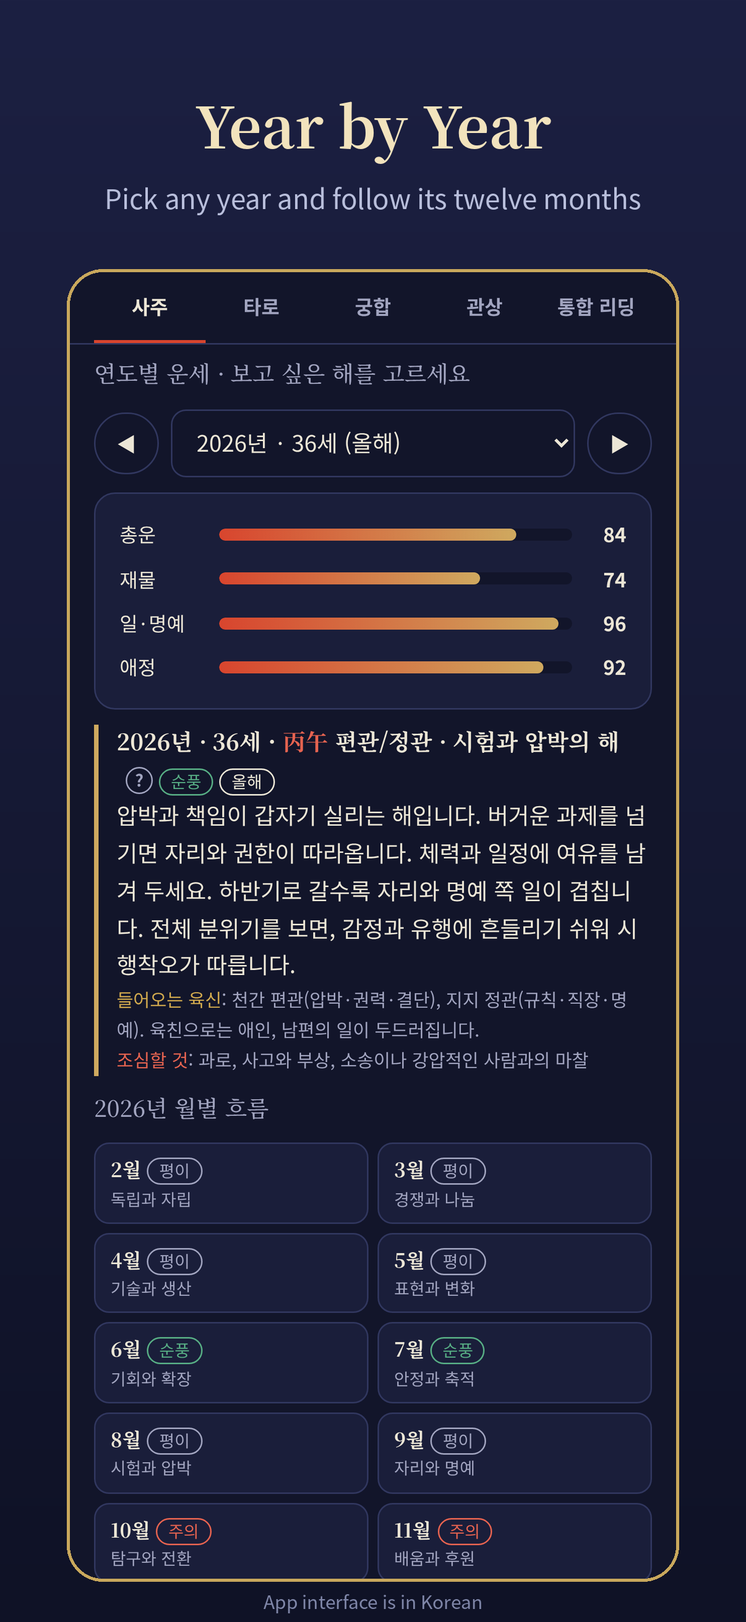
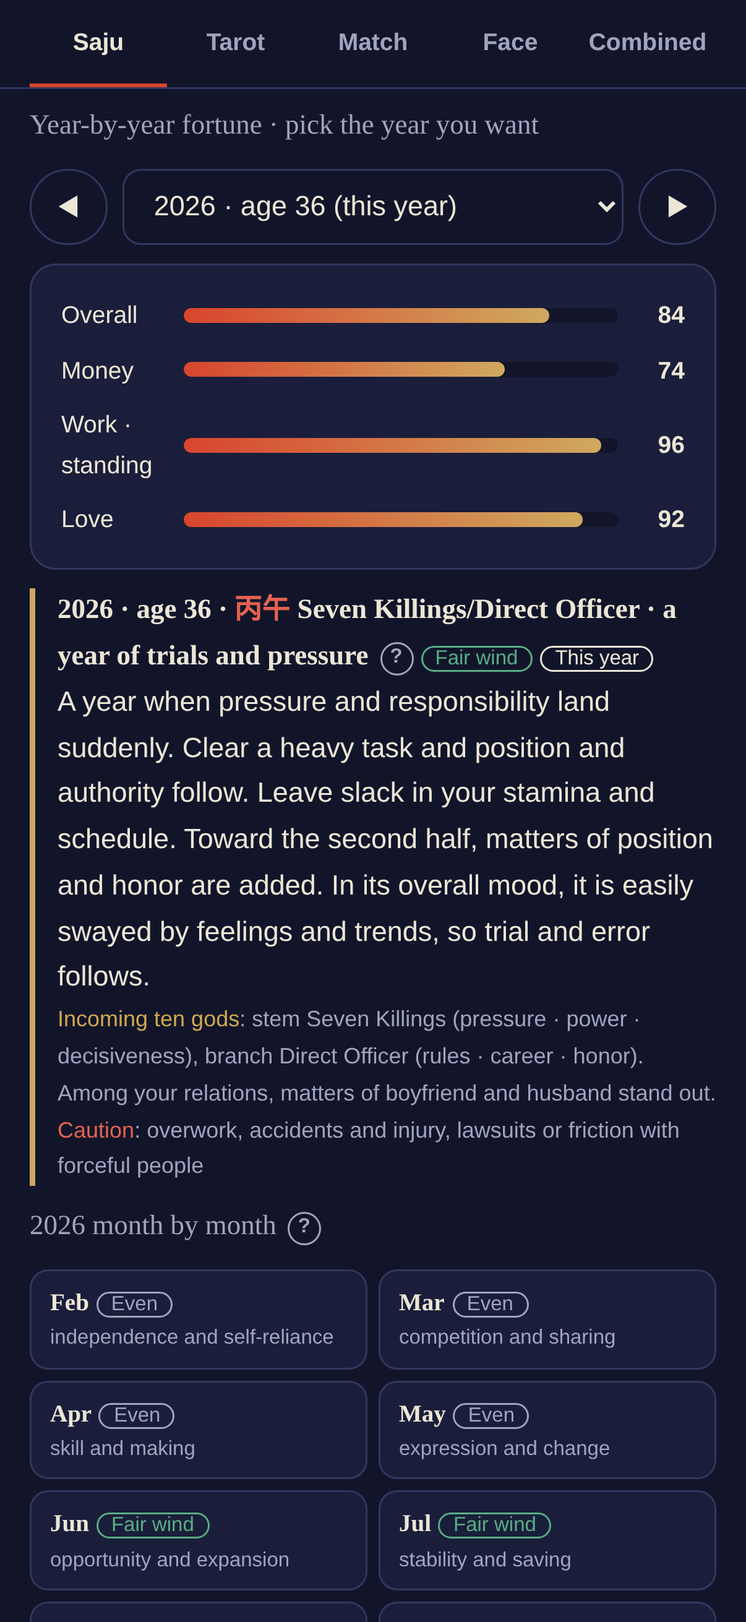
1.6: 영어 지원(언어 전환, 해외 출생지·시간대 계산, 영어 스크린샷, 영어 약관·방침 초안)
Claude-Session: https://claude.ai/code/session_01QACgwmPwTTV6X5ASPwkZ8c

diff --git a/src/engine.js b/src/engine.js
@@ -32,6 +32,33 @@ const cityKeyOf = u => u.city && CITY_LON[u.city] != null ? u.city : (Object.key
 const cityLabel = key => { const p = key.split('|'); return (['경기', '강원', '경남'].includes(p[0]) && ['광주', '고성'].includes(p[1]) ? p[0] + ' ' : '') + p[1]; };
 const cityOptions = sel => REGIONS.map(g => '<optgroup label="' + g[0] + '">' + g[1].map(c => { const k = g[0] + '|' + c[0]; return '<option value="' + k + '"' + (k === sel ? ' selected' : '') + '>' + c[0] + '</option>'; }).join('') + '</optgroup>').join('');
 
+/* 해외 출생: 주요 도시의 경도(동경 +, 서경 -)와 시간대. 태어난 곳의 시계 시각을 그 시간대(서머타임 포함)로 세계시로 바꾸고, 경도로 그곳의 태양시를 구해 시주를 세운다. */
+const WORLD = [
+  ['Korea · Japan', [['Seoul', 126.98, 'Asia/Seoul'], ['Busan', 129.08, 'Asia/Seoul'], ['Tokyo', 139.69, 'Asia/Tokyo'], ['Osaka', 135.50, 'Asia/Tokyo'], ['Sapporo', 141.35, 'Asia/Tokyo'], ['Fukuoka', 130.40, 'Asia/Tokyo']]],
+  ['United States · Canada', [['New York', -74.01, 'America/New_York'], ['Boston', -71.06, 'America/New_York'], ['Philadelphia', -75.17, 'America/New_York'], ['Washington, D.C.', -77.04, 'America/New_York'], ['Atlanta', -84.39, 'America/New_York'], ['Miami', -80.19, 'America/New_York'], ['Detroit', -83.05, 'America/Detroit'], ['Toronto', -79.38, 'America/Toronto'], ['Montreal', -73.57, 'America/Toronto'], ['Chicago', -87.63, 'America/Chicago'], ['Houston', -95.37, 'America/Chicago'], ['Dallas', -96.80, 'America/Chicago'], ['San Antonio', -98.49, 'America/Chicago'], ['Minneapolis', -93.27, 'America/Chicago'], ['Denver', -104.99, 'America/Denver'], ['Calgary', -114.07, 'America/Edmonton'], ['Phoenix', -112.07, 'America/Phoenix'], ['Los Angeles', -118.24, 'America/Los_Angeles'], ['San Diego', -117.16, 'America/Los_Angeles'], ['San Francisco', -122.42, 'America/Los_Angeles'], ['San Jose', -121.89, 'America/Los_Angeles'], ['Las Vegas', -115.14, 'America/Los_Angeles'], ['Portland', -122.68, 'America/Los_Angeles'], ['Seattle', -122.33, 'America/Los_Angeles'], ['Vancouver', -123.12, 'America/Vancouver'], ['Anchorage', -149.90, 'America/Anchorage'], ['Honolulu', -157.86, 'Pacific/Honolulu']]],
+  ['Asia · Pacific', [['Beijing', 116.41, 'Asia/Shanghai'], ['Shanghai', 121.47, 'Asia/Shanghai'], ['Hong Kong', 114.17, 'Asia/Hong_Kong'], ['Taipei', 121.57, 'Asia/Taipei'], ['Manila', 120.98, 'Asia/Manila'], ['Hanoi', 105.85, 'Asia/Ho_Chi_Minh'], ['Ho Chi Minh City', 106.63, 'Asia/Ho_Chi_Minh'], ['Bangkok', 100.50, 'Asia/Bangkok'], ['Singapore', 103.82, 'Asia/Singapore'], ['Kuala Lumpur', 101.69, 'Asia/Kuala_Lumpur'], ['Jakarta', 106.85, 'Asia/Jakarta'], ['Delhi', 77.21, 'Asia/Kolkata'], ['Mumbai', 72.88, 'Asia/Kolkata'], ['Dubai', 55.27, 'Asia/Dubai'], ['Sydney', 151.21, 'Australia/Sydney'], ['Melbourne', 144.96, 'Australia/Melbourne'], ['Perth', 115.86, 'Australia/Perth'], ['Auckland', 174.76, 'Pacific/Auckland']]],
+  ['Europe · Africa', [['London', -0.13, 'Europe/London'], ['Dublin', -6.26, 'Europe/Dublin'], ['Lisbon', -9.14, 'Europe/Lisbon'], ['Madrid', -3.70, 'Europe/Madrid'], ['Paris', 2.35, 'Europe/Paris'], ['Amsterdam', 4.90, 'Europe/Amsterdam'], ['Berlin', 13.40, 'Europe/Berlin'], ['Rome', 12.50, 'Europe/Rome'], ['Stockholm', 18.07, 'Europe/Stockholm'], ['Warsaw', 21.01, 'Europe/Warsaw'], ['Athens', 23.73, 'Europe/Athens'], ['Istanbul', 28.98, 'Europe/Istanbul'], ['Moscow', 37.62, 'Europe/Moscow'], ['Cairo', 31.24, 'Africa/Cairo'], ['Lagos', 3.38, 'Africa/Lagos'], ['Nairobi', 36.82, 'Africa/Nairobi'], ['Johannesburg', 28.05, 'Africa/Johannesburg']]],
+  ['Latin America', [['Mexico City', -99.13, 'America/Mexico_City'], ['Bogotá', -74.07, 'America/Bogota'], ['Lima', -77.04, 'America/Lima'], ['Santiago', -70.67, 'America/Santiago'], ['Buenos Aires', -58.38, 'America/Argentina/Buenos_Aires'], ['São Paulo', -46.63, 'America/Sao_Paulo']]]
+];
+const WORLD_MAP = {}; WORLD.forEach(g => g[1].forEach(c => { WORLD_MAP[c[0]] = c; }));
+const worldOptions = sel => WORLD.map(g => '<optgroup label="' + g[0] + '">' + g[1].map(c => '<option' + (c[0] === sel ? ' selected' : '') + '>' + c[0] + '</option>').join('') + '</optgroup>').join('');
+function worldGuess() { let tz = ''; try { tz = Intl.DateTimeFormat().resolvedOptions().timeZone; } catch (e) {} const hit = Object.keys(WORLD_MAP).find(k => WORLD_MAP[k][2] === tz); return hit || 'New York'; }
+const _zoneFmt = {};
+function zoneOffsetMin(ms, tz) {
+  try {
+    const f = _zoneFmt[tz] || (_zoneFmt[tz] = new Intl.DateTimeFormat('en-US', { timeZone: tz, hourCycle: 'h23', year: 'numeric', month: 'numeric', day: 'numeric', hour: 'numeric', minute: 'numeric', second: 'numeric' }));
+    const p = {}; f.formatToParts(new Date(ms)).forEach(x => { p[x.type] = +x.value; });
+    return Math.round((Date.UTC(p.year, p.month - 1, p.day, p.hour, p.minute, p.second) - ms) / 60000);
+  } catch (e) { return 0; }
+}
+function zoneToUTC(y, m, d, h, mi, tz) { const wall = Date.UTC(y, m - 1, d, h, mi); let ms = wall - zoneOffsetMin(wall, tz) * 60000; return wall - zoneOffsetMin(ms, tz) * 60000; }
+/* 화면에서 받은 태어난 곳과 시계 시각을 사용자 정보에 붙인다(영어판). 시 번호(si)는 계산 결과에서 채운다. */
+function withPlace(u, place, time, noTime) {
+  const c = WORLD_MAP[place] || WORLD_MAP['New York'], t = /^(\d{1,2}):(\d{2})/.exec(time || '');
+  u.place = c[0]; u.lon = c[1]; u.tz = c[2]; u.hh = noTime || !t ? null : +t[1]; u.mm = noTime || !t ? null : +t[2]; u.si = null;
+  u.si = calcSaju(u).siIdx; return u;
+}
+
 const stemEl = s => Math.floor(s / 2);
 const mod = (a, n) => ((a % n) + n) % n;
 const pad2 = n => String(n).padStart(2, '0');
@@ -112,12 +139,15 @@ const siOptions = sel => SI_LABEL.map((l, i) => '<option value="' + i + '"' + (i
 function calcSaju(u) {
   let sol = { y: u.y, m: u.m, d: u.d }, err = null;
   if (u.cal !== 'solar') { const r = lunarToSolar(u.y, u.m, u.d, u.cal === 'leap'); if (r) sol = r; else err = T('음력 날짜를 양력으로 바꾸지 못했습니다. 날짜와 윤달 여부를 확인하세요.', 'Could not convert the lunar date to a solar date. Check the date and whether it is a leap month.'); }
-  const si = siOf(u), known = si >= 0;                             // 시는 사주의 열두 시로 직접 받는다
-  const LON = 127.5;
-  const utc = known ? Date.UTC(sol.y, sol.m - 1, sol.d, si === 12 ? 23 : si * 2, si === 12 || si === 0 ? 30 : 0) - LON * 240000 : seoulToUTC(sol.y, sol.m, sol.d, 12, 0);
+  const W = u.tz && u.lon != null;                                 // 해외 출생: 태어난 곳의 시계 시각과 시간대, 경도로 계산한다
+  const si0 = W ? -1 : siOf(u), known = W ? u.hh != null : si0 >= 0;  // 한국: 시는 사주의 열두 시로 직접 받는다
+  const LON = W ? u.lon : 127.5;
+  const utc = W ? zoneToUTC(sol.y, sol.m, sol.d, known ? u.hh : 12, known ? u.mm : 0, u.tz)
+    : known ? Date.UTC(sol.y, sol.m - 1, sol.d, si0 === 12 ? 23 : si0 * 2, si0 === 12 || si0 === 0 ? 30 : 0) - LON * 240000 : seoulToUTC(sol.y, sol.m, sol.d, 12, 0);
   const lst = new Date(utc + LON * 240000);
-  const yajaOn = si === 12;
   const Y = lst.getUTCFullYear(), Mo = lst.getUTCMonth() + 1, D = lst.getUTCDate(), H = lst.getUTCHours(), Mi = lst.getUTCMinutes();
+  const si = !W ? si0 : !known ? -1 : H >= 23 ? 12 : Math.floor(mod(H * 60 + Mi + 60, 1440) / 120);   // 해외: 그곳 태양시로 시를 정한다(23시 이후는 야자시)
+  const yajaOn = si === 12;
   const jd = msToJD(utc, sol.y), lon = sunLon(jd);
   const sy = (Mo <= 2 && lon >= 270 && lon < 315) ? Y - 1 : (Mo === 12 && lon >= 315 ? Y + 1 : Y);
   const ys = mod(sy - 4, 10), yb = mod(sy - 4, 12);
@@ -173,7 +203,7 @@ function calcSaju(u) {
     warn: nearMin < 90 ? T('태어난 날이 절기가 바뀌는 날입니다. 절기 시각 전후로 월주(입춘이면 년주도)가 달라지니, 평소 보던 만세력과 월주를 비교해 보세요.', 'You were born on a day when the solar term changes. The month pillar (and the year pillar, at the Start of Spring) differs before and after that moment, so compare the month pillar with a chart you trust.') : '',
     err
   };
-  return { P, keys, count, me, strong, ratio, amt, tot, basis, need, forward, startAge, startExact, daeun, sajuYear: sy, by: sol.y, animal: ANIMALS[yb], lon, hourIdx, info };
+  return { P, keys, count, me, strong, ratio, amt, tot, basis, need, forward, startAge, startExact, daeun, sajuYear: sy, by: sol.y, animal: ANIMALS[yb], lon, hourIdx, siIdx: si, info };
 }
 function yearPillar(year, dayStem) { return pillar(mod(year - 4, 10), mod(year - 4, 12), dayStem); }
 function dayPillarOf(y, m, d, dayStem) { const i = mod(jdn(y, m, d) + 49, 60); return pillar(i % 10, i % 12, dayStem); }

diff --git a/src/ui2.js b/src/ui2.js
@@ -106,7 +106,7 @@ function celebrate() {
 /* ===== 헤더, 입력 폼 ===== */
 function renderWho() {
   const u = S.user, i = S.saju.info;
-  $('who').innerHTML = esc(u.name || T('이름 없음', 'No name')) + ' · ' + (u.cal === 'solar' ? T('양력 ', 'Solar ') : u.cal === 'leap' ? T('음력 윤달 ', 'Lunar leap ') : T('음력 ', 'Lunar ')) + u.y + '.' + u.m + '.' + u.d + (i.siName ? ' ' + i.siName : T(' 시 모름', ' hour unknown')) + ' · ' + (u.gender === 'M' ? T('남', 'M') : T('여', 'F')) +
+  $('who').innerHTML = esc(u.name || T('이름 없음', 'No name')) + ' · ' + (u.cal === 'solar' ? T('양력 ', 'Solar ') : u.cal === 'leap' ? T('음력 윤달 ', 'Lunar leap ') : T('음력 ', 'Lunar ')) + u.y + '.' + u.m + '.' + u.d + (u.place ? ' ' + esc(u.place) : '') + (i.siName ? ' ' + i.siName : T(' 시 모름', ' hour unknown')) + ' · ' + (u.gender === 'M' ? T('남', 'M') : T('여', 'F')) +
     (u.example ? '<span class="badge">' + T('예시 데이터', 'Example') + '</span>' : '') + (S.premium ? '<span class="badge">' + T('열람 중', 'Unlocked') + '</span>' : '');
   $('editBtn').textContent = u.example ? T('내 정보 입력', 'Enter my details') : T('수정', 'Edit');
 }
@@ -118,12 +118,19 @@ function correctionHTML() {
 }
 $('f-mbti').innerHTML = mbtiOptions;
 $('f-si').innerHTML = siOptions(-1);
+/* 영어판: 열두 시 대신 태어난 곳과 시계 시각을 받는다 */
+if (EN) {
+  const lab = $('f-si').parentNode; $('f-si').hidden = true;
+  lab.insertAdjacentHTML('beforeend', '<input id="f-time" type="time" value="12:00">');
+  lab.closest('.row').insertAdjacentHTML('afterend', '<div class="row"><label>Birthplace (nearest city)<select id="f-place">' + worldOptions(worldGuess()) + '</select></label><span></span></div>');
+}
 function fillForm() {
   const u = S.user;
   $('f-name').value = u.example ? '' : (u.name || ''); $('f-gender').value = u.gender; $('f-cal').value = u.cal;
   $('f-y').value = u.y; $('f-m').value = u.m; $('f-d').value = u.d;
   const si = siOf(u); $('f-si').value = si < 0 ? 5 : si; $('f-notime').checked = si < 0; $('f-si').disabled = si < 0;
   $('f-mbti').value = u.mbti || '';
+  if (EN) { $('f-time').value = u.hh != null ? pad2(u.hh) + ':' + pad2(u.mm) : '12:00'; $('f-time').disabled = u.tz ? u.hh == null : si < 0; $('f-notime').checked = $('f-time').disabled; if (u.place) $('f-place').value = u.place; }
 }
 $('birthForm').addEventListener('submit', e => {
   e.preventDefault();
@@ -131,6 +138,7 @@ $('birthForm').addEventListener('submit', e => {
   if (!(y >= 1900 && y <= 2100 && m >= 1 && m <= 12 && d >= 1 && d <= 31)) { msg.textContent = T('생년월일을 다시 확인하세요. 1900~2100년만 지원합니다.', 'Check the birth date again. Only 1900–2100 is supported.'); return; }
   const no = $('f-notime').checked;
   const u = { name: $('f-name').value.trim(), gender: $('f-gender').value, cal: $('f-cal').value, y, m, d, si: no ? -1 : +$('f-si').value, mbti: $('f-mbti').value };
+  if (EN) withPlace(u, $('f-place').value, $('f-time').value, no);
   if (u.cal !== 'solar' && !lunarToSolar(y, m, d, u.cal === 'leap')) { msg.textContent = T('해당 음력 날짜를 찾지 못했습니다. 윤달 여부와 날짜(29일/30일)를 확인하세요.', 'That lunar date was not found. Check whether it is a leap month and the day (29 or 30).'); return; }
   msg.textContent = ''; S.user = u; S.selYear = 0; S.deepText = ''; S.matchText = ''; store.set('mw-user2', u);
   $('birthForm').hidden = true; shuffle(); renderAll(); location.hash = 'saju'; route(); scrollTo(0, 0); celebrate();
@@ -176,8 +184,8 @@ document.addEventListener('click', e => {
   S.todayOpen = store.get('mw-today') === t;
 })();
 
-$('f-notime').addEventListener('change', e => { $('f-si').disabled = e.target.checked; });
-document.addEventListener('change', e => { if (e.target.id === 'p-notime') $('p-si').disabled = e.target.checked; });
+$('f-notime').addEventListener('change', e => { $('f-si').disabled = e.target.checked; if (EN) $('f-time').disabled = e.target.checked; });
+document.addEventListener('change', e => { if (e.target.id === 'p-notime') { $('p-si').disabled = e.target.checked; if (EN) $('p-time').disabled = e.target.checked; } });
 
 /* ===== 종합의견 ===== */
 function summaryHTML() {
@@ -189,7 +197,7 @@ function summaryHTML() {
   const topG = g.indexOf(Math.max.apply(null, g)), zero = g.map((n, i) => n === 0 ? GROUP_PLAIN[i] : null).filter(Boolean);
   if (EN) {
     const flow = { up: 'favorable', mid: 'even', dn: 'cautious' }[cur ? evalLuck(cur, false).grade[0] : 'mid'];
-    const e1 = 'You are ' + GYEOK_NICK[ni.gyeok.god].replace(/^The/, 'the') + ', born with the energy of ' + DAY_TXT[P.day.s][0].toLowerCase() + ' ' + SEASON_ADJ[ni.season].toLowerCase() + '. ' + (sj.strong ? 'Your innate strength is ample, so pushing forward yourself suits you, and the surplus should be drawn off into work and results.' : 'Your innate strength is on the weak side, so working through people, credentials and preparation suits you better than holding out alone.') + ' What stands out most is the energy of ' + GROUP_PLAIN[topG] + (zero.length ? ', while the energy of ' + zero.join(', ') + ' does not show and needs conscious attention.' : ', and all five energies are present.');
+    const e1 = 'You are ' + GYEOK_NICK[ni.gyeok.god].replace(/^The/, 'the') + ', ' + SEASON_ADJ[ni.season].toLowerCase() + ', with the energy of ' + DAY_TXT[P.day.s][0].toLowerCase() + '. ' + (sj.strong ? 'Your innate strength is ample, so pushing forward yourself suits you, and the surplus should be drawn off into work and results.' : 'Your innate strength is on the weak side, so working through people, credentials and preparation suits you better than holding out alone.') + ' What stands out most is the energy of ' + GROUP_PLAIN[topG] + (zero.length ? ', while the energy of ' + zero.join(', ') + ' does not show and needs conscious attention.' : ', and all five energies are present.');
     const e2 = (cur ? 'Now (age ' + cur.age + '–' + (cur.age + 9) + ') is ten years of ' + theme(cur.sGod, cur.age + 2) + ', and the flow is ' + flow + '. ' : 'Your first ten-year cycle has not begun yet. ') + 'This year\'s overall score is ' + sc.total + ' (' + scoreWord(sc.total) + '). The period of your life with the most support ' + (best.year + 9 < yNow ? 'was' : 'is') + ' age ' + best.age + '–' + (best.age + 9) + '. Within the next ten years, ' + top[0] + ' is the best and ' + low[0] + ' calls for the most care.';
     const e3 = 'In short, ' + (sc.total >= 70 ? 'this is a year when you can move.' : sc.total >= 50 ? 'this is a year for refining rather than starting anew.' : 'this is a year to put your strength into protecting what you have.') + ' Time big decisions for ' + top[0] + ', and finish preparing before ' + low[0] + ' arrives. Day to day, add the ' + EL[sj.need] + ' energy you need. ' + EL_TIP[sj.need][1];
     return '<div class="block" id="s-sum"><h3>Overall summary</h3><div class="panel block sum"><p>' + e1 + '</p><p>' + e2 + '</p><p><b>' + e3 + '</b></p></div></div>';

diff --git a/src/match.js b/src/match.js
@@ -156,7 +156,7 @@ function renderMatch() {
   const opinion = EN ? '<div class="block"><h3>Overall summary</h3><div class="panel block sum"><p>' + g.an + ' and ' + g.bn + ' score ' + g.total + ' overall: <b>' + matchWord(g.total).toLowerCase() + '</b>. ' + GN.out[0] + ' ' + g.grp.out + ', ' + GN.in[0].toLowerCase() + ' ' + g.grp.in + '. ' + inOut + ' Your greatest strength is ' + hi[0].toLowerCase() + ' (' + hi[1] + '), and the place to mind most is ' + lo[0].toLowerCase() + ' (' + lo[1] + ').</p><p><b>In short, ' + (g.total >= 72 ? 'the foundation between you is good. Not taking the good for granted is how it lasts.' : g.total >= 58 ? 'you fit in some places and differ in others. Knowing the differences in advance and adjusting is enough to make it good.' : 'your innate grain differs a great deal. It gets easier when you settle differences as rules rather than trying to fix each other.') + ' ' + tip + '</b></p></div></div>' : '<div class="block"><h3>종합의견</h3><div class="panel block sum"><p>' + josa(g.an, '과', '와') + ' ' + josa(g.bn, '은', '는') + ' 종합 ' + g.total + '점으로 <b>' + matchWord(g.total) + '</b>입니다. ' + GN.out[0] + ' ' + g.grp.out + '점, ' + GN.in[0] + ' ' + g.grp.in + '점으로 ' + inOut + ' 가장 큰 강점은 ' + hi[0] + '(' + hi[1] + '점)이고, 가장 신경 쓸 곳은 ' + lo[0] + '(' + lo[1] + '점)입니다.</p><p><b>정리하면, ' + (g.total >= 72 ? '기본 바탕이 좋은 사이입니다. 좋은 점을 당연하게 여기지 않는 것이 오래가는 길입니다.' : g.total >= 58 ? '맞는 곳과 다른 곳이 섞인 사이입니다. 다른 곳을 미리 알고 맞춰 가면 충분히 좋아집니다.' : '타고난 결이 많이 다른 사이입니다. 상대를 고치려 하기보다 다름을 규칙으로 정리해야 편해집니다.') + ' ' + tip + '</b></p></div></div>';
   const form = '<form class="birth" id="partnerForm"' + (S.pEdit ? '' : ' hidden') + '><div class="row"><label>' + T('상대 이름(선택)', 'Partner\'s name (optional)') + '<input id="p-name" maxlength="12" autocomplete="off" value="' + (ub.example ? '' : esc(ub.name || '')) + '"></label><label>' + T('성별', 'Sex') + '<select id="p-gender"><option value="M"' + (ub.gender === 'M' ? ' selected' : '') + '>' + T('남', 'Male') + '</option><option value="F"' + (ub.gender === 'F' ? ' selected' : '') + '>' + T('여', 'Female') + '</option></select></label></div>' +
     '<div class="row4"><label>' + T('달력', 'Calendar') + '<select id="p-cal">' + [['solar', T('양력', 'Solar')], ['lunar', T('음력', 'Lunar')], ['leap', T('음력 윤달', 'Lunar (leap month)')]].map(c => '<option value="' + c[0] + '"' + (ub.cal === c[0] ? ' selected' : '') + '>' + c[1] + '</option>').join('') + '</select></label><label>' + T('년', 'Year') + '<input id="p-y" type="number" inputmode="numeric" min="1900" max="2100" required value="' + ub.y + '"></label><label>' + T('월', 'Month') + '<input id="p-m" type="number" inputmode="numeric" min="1" max="12" required value="' + ub.m + '"></label><label>' + T('일', 'Day') + '<input id="p-d" type="number" inputmode="numeric" min="1" max="31" required value="' + ub.d + '"></label></div>' +
-    '<div class="row"><label>' + T('태어난 시', 'Birth hour') + '<select id="p-si"' + (siOf(ub) < 0 ? ' disabled' : '') + '>' + siOptions(siOf(ub) < 0 ? 5 : siOf(ub)) + '</select></label><label class="chk" style="align-self:end;padding-bottom:10px"><input id="p-notime" type="checkbox"' + (siOf(ub) < 0 ? ' checked' : '') + '>' + T(' 시를 모릅니다', ' I don\'t know the hour') + '</label></div>' +
+    (EN ? '<div class="row"><label>Birthplace (nearest city)<select id="p-place">' + worldOptions(ub.place || (S.user && S.user.place) || worldGuess()) + '</select></label><span></span></div>' : '') + '<div class="row"><label>' + T('태어난 시', 'Birth time (clock)') + '<select id="p-si"' + (EN ? ' hidden' : '') + (siOf(ub) < 0 ? ' disabled' : '') + '>' + siOptions(siOf(ub) < 0 ? 5 : siOf(ub)) + '</select>' + (EN ? '<input id="p-time" type="time" value="' + (ub.hh != null ? pad2(ub.hh) + ':' + pad2(ub.mm) : '12:00') + '"' + ((ub.tz ? ub.hh == null : siOf(ub) < 0) ? ' disabled' : '') + '>' : '') + '</label><label class="chk" style="align-self:end;padding-bottom:10px"><input id="p-notime" type="checkbox"' + (siOf(ub) < 0 ? ' checked' : '') + '>' + T(' 시를 모릅니다', ' I don\'t know the hour') + '</label></div>' +
     '<p class="hint">' + T('시를 모르면 체크하세요. 생년월일만으로도 궁합을 봅니다.', 'Tick this if the hour is unknown. The birth date alone is enough for a match.') + '</p><p class="note warn" id="p-msg" role="alert"></p><button class="primary" type="submit">' + T('궁합 보기', 'See the match') + '</button></form>';
   const detailAll = detail + opinion;
   const chips = '<div class="chips"><button type="button" class="chip' + (S.rel === 'love' ? ' on' : '') + '" data-rel="love">' + T('연인·부부', 'Couple') + '</button><button type="button" class="chip' + (S.rel === 'friend' ? ' on' : '') + '" data-rel="friend">' + T('친구·동료', 'Friends · coworkers') + '</button><button type="button" class="chip" data-pedit>' + (ub.example ? T('상대 정보 입력', 'Enter partner\'s details') : T('상대 정보 수정', 'Edit partner\'s details')) + '</button></div>';
@@ -186,6 +186,7 @@ document.addEventListener('submit', e => {
   if (!(y >= 1900 && y <= 2100 && m >= 1 && m <= 12 && d >= 1 && d <= 31)) { msg.textContent = T('생년월일을 다시 확인하세요.', 'Check the birth date again.'); return; }
   if (cal !== 'solar' && !lunarToSolar(y, m, d, cal === 'leap')) { msg.textContent = T('해당 음력 날짜를 찾지 못했습니다. 윤달 여부를 확인하세요.', 'That lunar date was not found. Check whether it is a leap month.'); return; }
   S.partner = { name: $('p-name').value.trim(), gender: $('p-gender').value, cal, y, m, d, si: no ? -1 : +$('p-si').value };
+  if (EN) withPlace(S.partner, $('p-place').value, $('p-time').value, no);
   store.set('mw-partner', S.partner);
   S.pEdit = false; S.matchText = ''; renderMatch();
   const v = $('v-match'); v.classList.remove('enter'); void v.offsetWidth; v.classList.add('enter'); countUp(v);

diff --git a/src/i18n.js b/src/i18n.js
@@ -1,8 +1,9 @@
 /* ===== 언어: 한국어(기본)와 영어 =====
    T(ko, en)으로 문장을 고른다. 표는 LANG에 따라 한국어 표나 영어 표를 통째로 고른다.
    표의 열쇠(비견, 목 같은 내부 이름)는 언어와 상관없이 한국어 그대로 두고, 화면에 보일 때만 이름표를 바꾼다.
-   EN_READY가 false인 동안에는 앱이 항상 한국어로 뜬다. 영어는 웹 미리보기에서 주소 끝에 ?lang=en 을 붙여서만 본다. */
-const EN_READY = false;
+   기기 언어가 한국어면 한국어, 그 밖에는 영어로 뜬다. 화면 맨 아래 단추로 바꿀 수 있고, 고른 언어는 기기에 저장된다.
+   EN_READY를 false로 돌리면 앱이 항상 한국어로 뜬다(영어는 주소 끝에 ?lang=en 을 붙여야만 보인다). */
+const EN_READY = true;
 const LANG = (() => {
   let q = null, saved = null;
   try { q = new URLSearchParams(location.search).get('lang'); saved = localStorage.getItem('mw-lang'); } catch (e) {}
@@ -31,9 +32,9 @@ function setLang(l) { try { localStorage.setItem('mw-lang', l); } catch (e) {} l
   tx(id('f-name').parentNode, 'Name (optional)'); tx(id('f-gender').parentNode, 'Sex'); opt('f-gender', { M: 'Male', F: 'Female' });
   tx(id('f-cal').parentNode, 'Calendar'); opt('f-cal', { solar: 'Solar', lunar: 'Lunar', leap: 'Lunar (leap month)' });
   tx(id('f-y').parentNode, 'Year'); tx(id('f-m').parentNode, 'Month'); tx(id('f-d').parentNode, 'Day');
-  tx(id('f-si').parentNode, 'Birth hour'); tx(id('f-notime').parentNode, " I don't know the hour", true);
+  tx(id('f-si').parentNode, 'Birth time (clock)'); tx(id('f-notime').parentNode, " I don't know the hour", true);
   tx(id('f-mbti').parentNode, 'MBTI type (optional)');
-  html(q('#birthForm .hint'), 'Hours follow the clock time where you were born. If you were born near the edge of a two-hour block, or during daylight saving time, check the neighboring block as well.');
+  html(q('#birthForm .hint'), 'Enter the clock time where you were born. The app converts it with that city\'s time zone (daylight saving included) and its longitude to find your hour pillar. Choose the nearest listed city in the same time zone.');
   html(q('#birthForm button.primary'), 'See my chart');
   const nav = { saju: 'Saju', tarot: 'Tarot', match: 'Match', face: 'Face', reading: 'Combined' };
   document.querySelectorAll('nav a[data-v]').forEach(a => { if (nav[a.dataset.v]) a.textContent = nav[a.dataset.v]; });
@@ -42,7 +43,7 @@ function setLang(l) { try { localStorage.setItem('mw-lang', l); } catch (e) {} l
 
   html(q('#guideDlg h2'), 'How it works');
   html(q('#guideDlg ol.guide'),
-    '<li><b>Enter your details</b> Your birth date (solar or lunar) and birth hour. If you don\'t know the hour, tick "I don\'t know the hour".</li>' +
+    '<li><b>Enter your details</b> Your birth date (solar or lunar) and birth time. Add the city nearest your birthplace. If you don\'t know the time, tick "I don\'t know the hour".</li>' +
     '<li><b>Saju</b> Tap "See today\'s fortune" at the top; it opens after one ad. Pick a year to read that year\'s fortune. The overall summary is at the bottom. Tap the ? next to a heading for a plain explanation of the term.</li>' +
     '<li><b>Tarot</b> Tap the cards to flip them yourself. The daily card is one card a day and flips after an ad.</li>' +
     '<li><b>Match</b> Enter the other person\'s birth date to see your scores and reading as a pair.</li>' +

diff --git a/src/en-data.js b/src/en-data.js
@@ -220,7 +220,7 @@ const EN_P = {
   SS_PLAIN: { '천을귀인': 'luck with helpers', '도화': 'charm and popularity', '역마': 'movement and change', '화개': 'absorption and art', '양인': 'strong drive', '문창귀인': 'study and writing', '공망': 'an empty seat', '괴강': 'strong momentum', '백호': 'forceful energy' }
 };
 const EN_U = {
-  SEASON_ADJ: { '봄': 'Of a spring day', '여름': 'Of midsummer', '가을': 'Of autumn', '겨울': 'Of midwinter' },
+  SEASON_ADJ: { '봄': 'Spring-born', '여름': 'Midsummer-born', '가을': 'Autumn-born', '겨울': 'Midwinter-born' },
   GYEOK_NICK: { '비견': 'The self-made type', '겁재': 'The competitor', '식신': 'The craftsperson', '상관': 'The innovator', '편재': 'The entrepreneur', '정재': 'The steady manager', '편관': 'The troubleshooter', '정관': 'The principled leader', '편인': 'The explorer', '정인': 'The scholar' },
   DAY_TIP: {
     '비견': 'A good day to push on at your own pace. Take the lead in setting appointments.', '겁재': 'A day when your wallet opens easily. Put off big payments until tomorrow.',

diff --git a/src/boot.js b/src/boot.js
@@ -1,5 +1,7 @@
 /* ===== 시작 ===== */
 shuffle(); fillForm(); renderAll(); route(); celebrate();
+/* 언어 바꾸기 단추 */
+(() => { const b = document.createElement('button'); b.className = 'ghost'; b.type = 'button'; b.id = 'langBtn'; b.textContent = EN ? '한국어' : 'English'; b.lang = EN ? 'ko' : 'en'; b.onclick = () => setLang(EN ? 'ko' : 'en'); $('codeBtn').insertAdjacentElement('afterend', b); b.hidden = !EN_READY; })();
 Pay.init();
 Ads.init();
 if (NATIVE && window.CapSystemBars) window.CapSystemBars.setStyle({ style: 'DARK' }).catch(() => {});   // 어두운 배경에 밝은 상태바 글자

diff --git a/scripts/make-screenshots.py b/scripts/make-screenshots.py
@@ -2,12 +2,15 @@
 #   인자 없음: 안드로이드용 1080x1920 -> store/screenshots
 #   ios      : 애플 아이폰용 1206x2622(App Store Connect의 Dynamic Island 지원 iPhone 칸) -> store/ios-screenshots
 import asyncio, os, shutil, sys
+#   뒤에 en 을 붙이면 영어 화면: python3 scripts/make-screenshots.py ios en -> store/ios-screenshots-en, python3 scripts/make-screenshots.py android en -> store/screenshots-en
 IOS = len(sys.argv) > 1 and sys.argv[1] == 'ios'
-W, H, OUT = (402, 874, 'store/ios-screenshots/') if IOS else (360, 640, 'store/screenshots/')
+ENG = 'en' in sys.argv[1:]
+W, H, OUT = (402, 874, 'store/ios-screenshots') if IOS else (360, 640, 'store/screenshots')
+OUT += '-en/' if ENG else '/'
 os.makedirs(OUT, exist_ok=True)
 from playwright.async_api import async_playwright
 CHROME = shutil.which('google-chrome') or shutil.which('chromium')
-URL = 'file://' + os.path.abspath('dist/index.html')
+URL = 'file://' + os.path.abspath('dist/index.html') + ('?lang=en' if 'en' in sys.argv[1:] else '?lang=ko')
 FACE_JS = r'''
 (P) => {
   /* 얼굴 사진이나 그림 없이, 어두운 바탕에 측정 윤곽선만 보이게 한다 */
@@ -22,7 +25,8 @@ async def main():
         pg = await b.new_page(viewport={'width': W, 'height': H}, device_scale_factor=3)
         errs = []; pg.on('pageerror', lambda e: errs.append(str(e)))
         await pg.goto(URL); await pg.wait_for_timeout(800)
-        await pg.evaluate("$('guideDlg').close(); S.user={name:'김하늘',gender:'F',cal:'solar',y:1990,m:5,d:15,si:3}; S.partner={name:'이도윤',gender:'M',cal:'solar',y:1988,m:8,d:23,si:7}; Access.add('s:'+profileKey(S.user)); Access.add('m:'+pairKey()); S.streak=1; shuffle(); renderAll(); document.querySelector('canvas.fx').remove()")
+        await pg.evaluate("$('guideDlg').close(); S.user={name:EN?'Skye':'김하늘',gender:'F',cal:'solar',y:1990,m:5,d:15,si:3}; S.partner={name:EN?'Daniel':'이도윤',gender:'M',cal:'solar',y:1988,m:8,d:23,si:7}; if(EN){withPlace(S.user,'Los Angeles','07:40',false); withPlace(S.partner,'Chicago','15:20',false);} Access.add('s:'+profileKey(S.user)); Access.add('m:'+pairKey()); S.streak=1; shuffle(); renderAll(); document.querySelector('canvas.fx').remove()")
+        await pg.evaluate("$('langBtn').hidden = true")
         if IOS: await pg.evaluate("$('codeBtn').hidden = true")   # 아이폰 앱에는 열람 코드 단추가 없다
         async def shot(name, sel=None, dy=0):
             if sel: await pg.evaluate("(a)=>{const e=document.querySelector(a[0]);window.scrollTo(0,e.getBoundingClientRect().top+scrollY-56+a[1])}", [sel, dy])

diff --git a/docs/ROADMAP.md b/docs/ROADMAP.md
@@ -27,12 +27,11 @@
 - 운세 앱은 심사 지침 4.3(b)의 포화 카테고리로 반려 가능성이 크다. 싹싹 클린과 같은 개발자 계정이므로 반복 제출은 피한다.
 - 사주와 관상을 겹쳐 읽는 점, 기기 안에서만 처리하는 관상 측정을 차별점으로 심사 메모에 적는다.
 
-## 영어판 진행 상황 (2026-11-25 시작)
+## 영어판 (1.6에서 완료)
 
-구조: `src/i18n.js`가 언어(`LANG`)를 정하고 `T(한국어, 영어)`로 문장을 고른다. 표의 열쇠(비견, 목 등)는 한국어 그대로 두고 화면에 보일 때만 영어 이름표를 쓴다. `EN_READY = false`인 동안 앱은 항상 한국어로 뜨고, 영어는 웹 미리보기에서 주소 끝에 `?lang=en`을 붙여야만 보인다.
+구조: `src/i18n.js`가 언어(`LANG`)를 정하고 `T(한국어, 영어)`로 문장을 고른다. 기기 언어가 한국어면 한국어, 그 밖에는 영어로 뜨고, 화면 맨 아래 단추로 바꾼다. 표의 열쇠(비견, 목 등)는 한국어 그대로 두고 화면에 보일 때만 영어 이름표를 쓴다.
 
-- [x] 1단계: 언어 전환 장치, 화면 틀(입력 폼, 탭, 안내, 결제 창), 결제·광고 문구, 오늘의 운세 틀
-- [ ] 2단계: 사주 본문. 끝난 것: `engine.js` 이름표, `app.js`(풀이 표, 타로 78장 문구, 통합 리딩), `yuksin.js`, `deep.js`의 표·신살·합충·운 평가·분야별·자리별 풀이(`src/en-data.js`, `src/en-saju.js`). 남은 것: `deep.js`의 `renderSaju()` 화면 조립(원국 표, 대운·세운 항목, 제목들), 그래프·요약·MBTI(`ui2.js` 쪽), AI 명식 요약은 한국어 그대로 둠
-- [ ] 3단계: 궁합(`match.js`), 관상(`face.js`), 타로 78장(`ui2.js`), 용어 풀이(`gloss.js`)
-- [ ] 4단계: 태어난 곳(주요 도시)과 시간대 계산
-- [ ] 5단계: 검수(영어 모드에서 한글이 남은 곳 찾기), 영어 스크린샷, 약관·방침 영어판, `EN_READY = true`
+- 영어 문장과 표: `src/en-data.js`(사주·타로·용어), `src/en-saju.js`(분야별·자리별 풀이), `src/en-match.js`(궁합), `src/en-face.js`(관상). 한국어 문장을 고치면 같은 자리의 영어도 고친다
+- 해외 출생: 영어 화면은 열두 시 대신 태어난 곳(주요 도시 약 75곳)과 시계 시각을 받는다. 그 도시의 시간대(서머타임 포함)로 세계시를 구하고 경도로 태양시를 구해 시주를 세운다(`engine.js`의 `WORLD`, `withPlace`). 한국어 화면의 계산은 그대로다
+- 확인한 것: 영어 모드에서 다섯 탭과 결제·안내 창에 한글이 남지 않음(어린이, 고령, 시 모름, 음력, 친구 궁합 포함). 서울을 고른 영어 입력과 한국어 입력의 명식이 같음. 입춘 전후로 년주·월주가 바뀜
+- 남은 것: 약관·개인정보처리방침 영어 페이지 공개(초안은 `docs/privacy-policy-en.md`, `docs/terms-en.md`), 영어 원어민 검수, 일본어판, AI 상담용 명식 요약의 영어화(앱에서는 쓰지 않는 기능)

diff --git a/docs/release-notes/1.6.md b/docs/release-notes/1.6.md
@@ -1,0 +1,32 @@
+# 등불사주 1.6 (versionCode 8)
+
+## 플레이 콘솔 "출시 노트"에 붙여 넣을 내용
+
+```
+<ko-KR>
+· 영어를 지원합니다. 기기 언어에 따라 한국어나 영어로 열리고, 화면 맨 아래에서 바꿀 수 있습니다
+· 영어 화면에서는 태어난 도시와 시각을 넣으면 그곳의 시간대와 경도로 사주를 계산합니다
+</ko-KR>
+<en-US>
+· English is now supported. The app opens in Korean or English by device language, and you can switch at the bottom of the screen
+· In English, enter your birth city and clock time; the chart is calculated with that city's time zone and longitude
+</en-US>
+```
+
+## 애플 "이 버전의 새로운 기능"
+
+한국어
+```
+영어를 지원합니다. 화면 맨 아래에서 언어를 바꿀 수 있습니다. 영어 화면에서는 태어난 도시와 시각으로 사주를 계산합니다.
+```
+English
+```
+English is now supported; switch languages at the bottom of the screen. In English, your chart is calculated from your birth city and clock time.
+```
+
+## 내부 기록
+
+- 풀이 문장 전체(사주, 육신, 대운·세운, 궁합, 관상, 타로 78장, 용어 55개)의 영어판. 한국어 화면은 1.5.1과 같음을 자동 비교로 확인
+- 영어 스크린샷: `store/ios-screenshots-en`(1206x2622), `store/screenshots-en`(1080x1920)
+- iOS `Info.plist`에 지원 언어(ko, en)와 카메라·사진 사용 설명 영어 병기
+- 결제 창의 약관·방침 링크는 아직 한국어 페이지로 간다. 영어 페이지를 공개하면 `src/pay.js`의 주소를 언어별로 나눈다

diff --git a/docs/privacy-policy-en.md b/docs/privacy-policy-en.md
@@ -1,0 +1,13 @@
+# Deungbul Saju — Privacy Policy (English draft)
+
+공개 전 초안이다. 한국어 방침(`privacy-policy.md`)과 내용이 같아야 하며, 다를 때는 한국어본이 우선한다.
+
+Operator: Martin park · Contact: knkbpark@gmail.com
+
+1. What the app stores. Your birth date, birth time, birthplace, sex, name and personality type, and your match partner's details, are stored only on your device. They are not sent to our servers; we do not operate one.
+2. Face photos. A photo you take or choose for face reading is analyzed on your device only. Only the positions of facial landmarks are measured. The photo and the measurements are not saved and are not sent anywhere. No one is identified from a face.
+3. Purchases. In-app purchases are processed by Apple or Google. Purchase status is confirmed through RevenueCat, which receives an anonymous app user ID and purchase records. We never receive your card details.
+4. Advertising. Rewarded ads are served by Google AdMob, which may collect device identifiers, approximate location derived from IP address, and ad interaction data under Google's privacy policy. The app does not show the tracking permission prompt on iOS and does not use the advertising identifier there.
+5. Deleting your data. "Erase all saved data" at the bottom of the screen removes everything stored on the device. Deleting the app also removes it.
+6. Children. The app is not directed at children under 13.
+7. Changes. Changes to this policy are announced in the app or on this page.

diff --git a/docs/terms-en.md b/docs/terms-en.md
@@ -1,0 +1,11 @@
+# Deungbul Saju — Terms of Use (English draft)
+
+공개 전 초안이다. 한국어 약관(`terms.md`)과 내용이 같아야 하며, 다를 때는 한국어본이 우선한다.
+
+1. The service. Deungbul Saju provides saju (four pillars), face-reading, compatibility and tarot readings for entertainment and reference. Do not use them as a basis for health, legal or investment decisions.
+2. Paid content. A detailed reading is unlocked per person's saju or per couple with a one-time in-app purchase. There is no subscription and nothing renews automatically. A purchased reading stays available on that device; deleting the app may remove the purchase record.
+3. Refunds. Purchases are handled by the App Store or Google Play, and refunds follow their policies.
+4. Ads. The daily fortune and daily tarot card open after a rewarded ad. If no ad is available, they open without one.
+5. Your data. See the Privacy Policy.
+6. Liability. Readings are generated by fixed rules from the information you enter and are not predictions or professional advice.
+7. Contact. knkbpark@gmail.com
